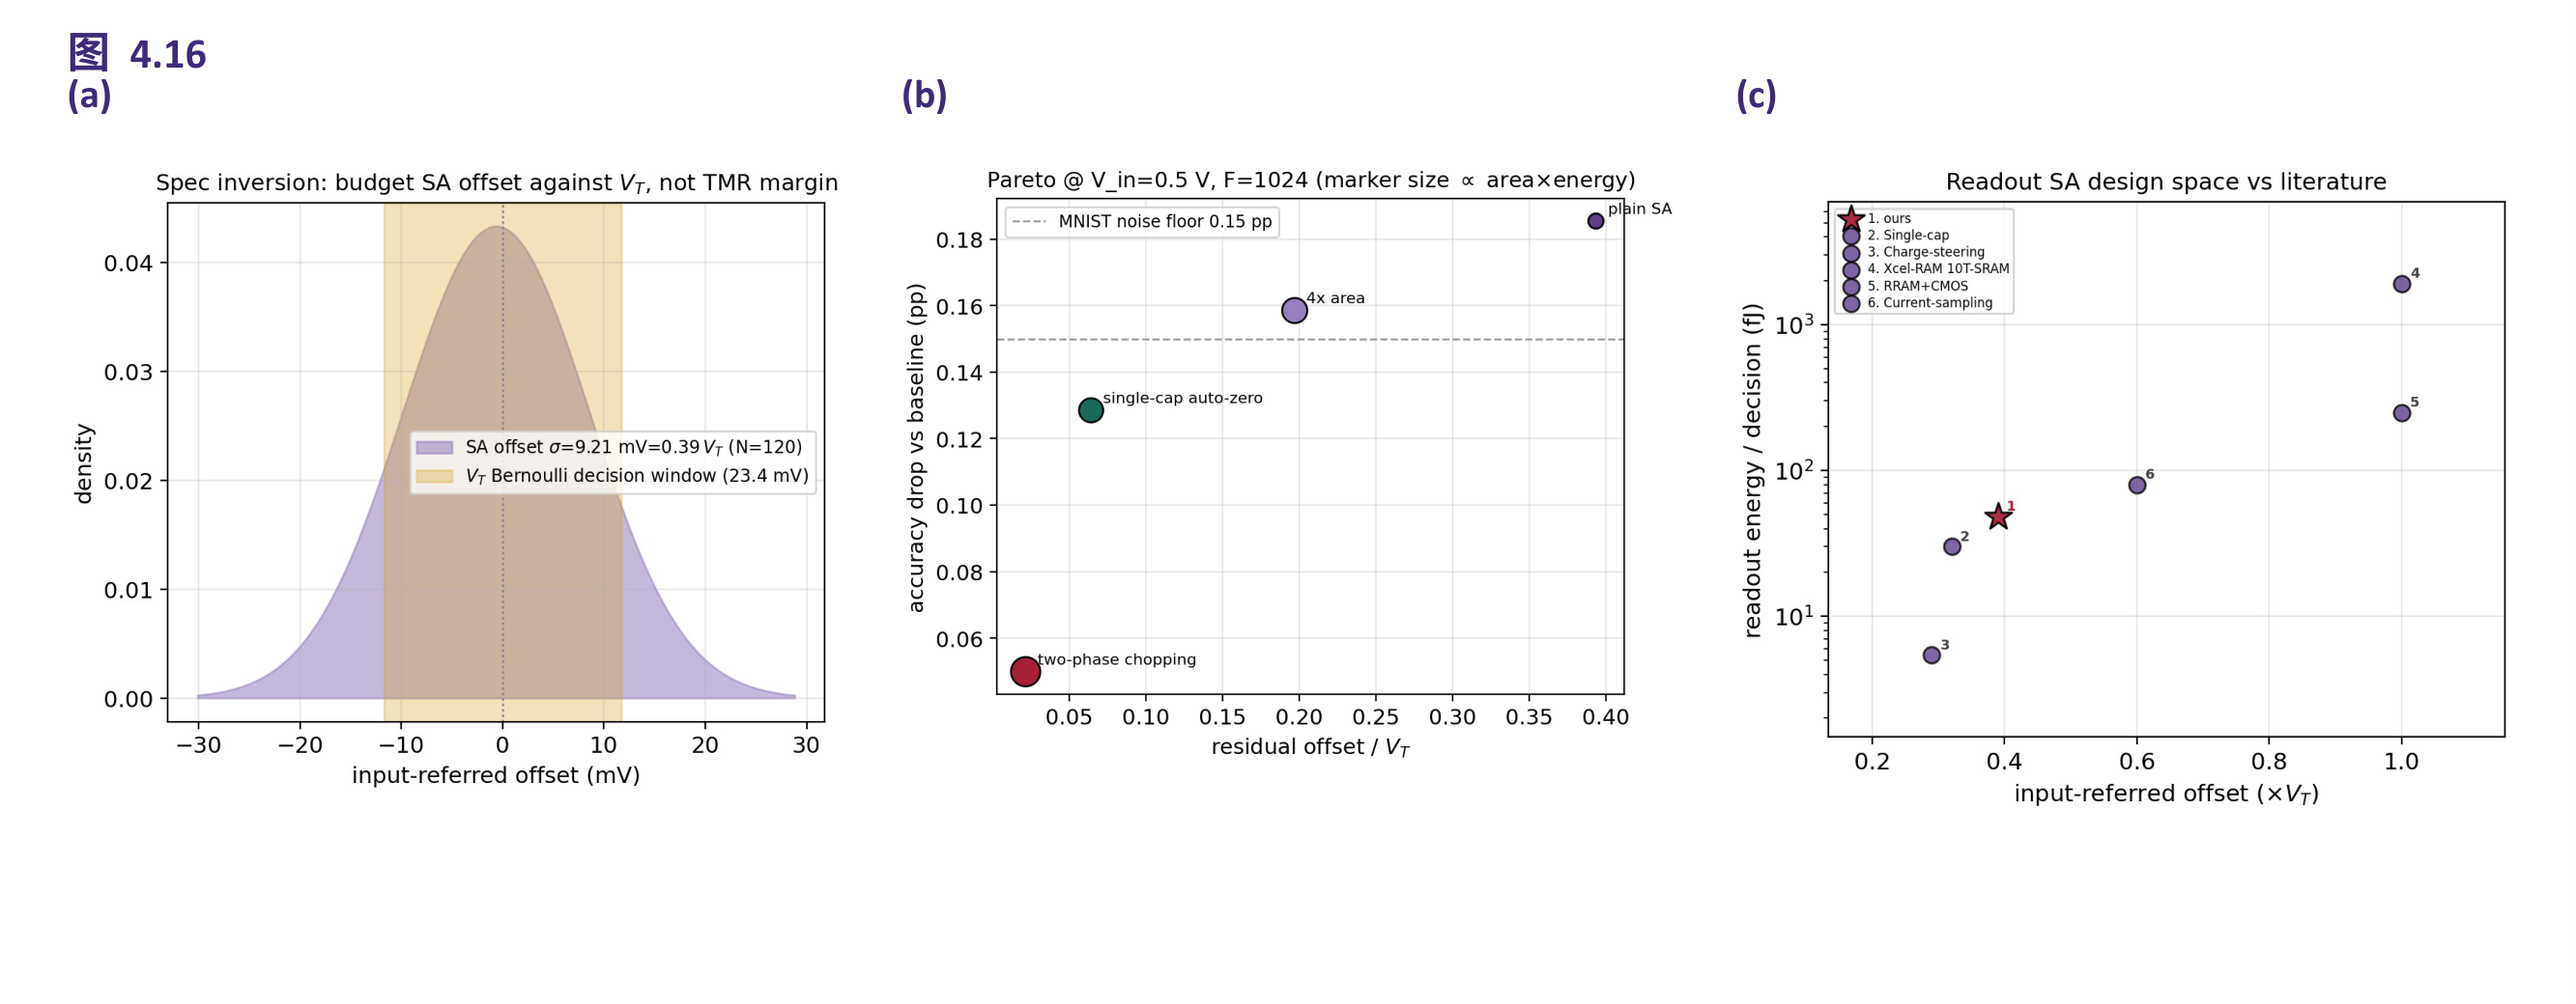
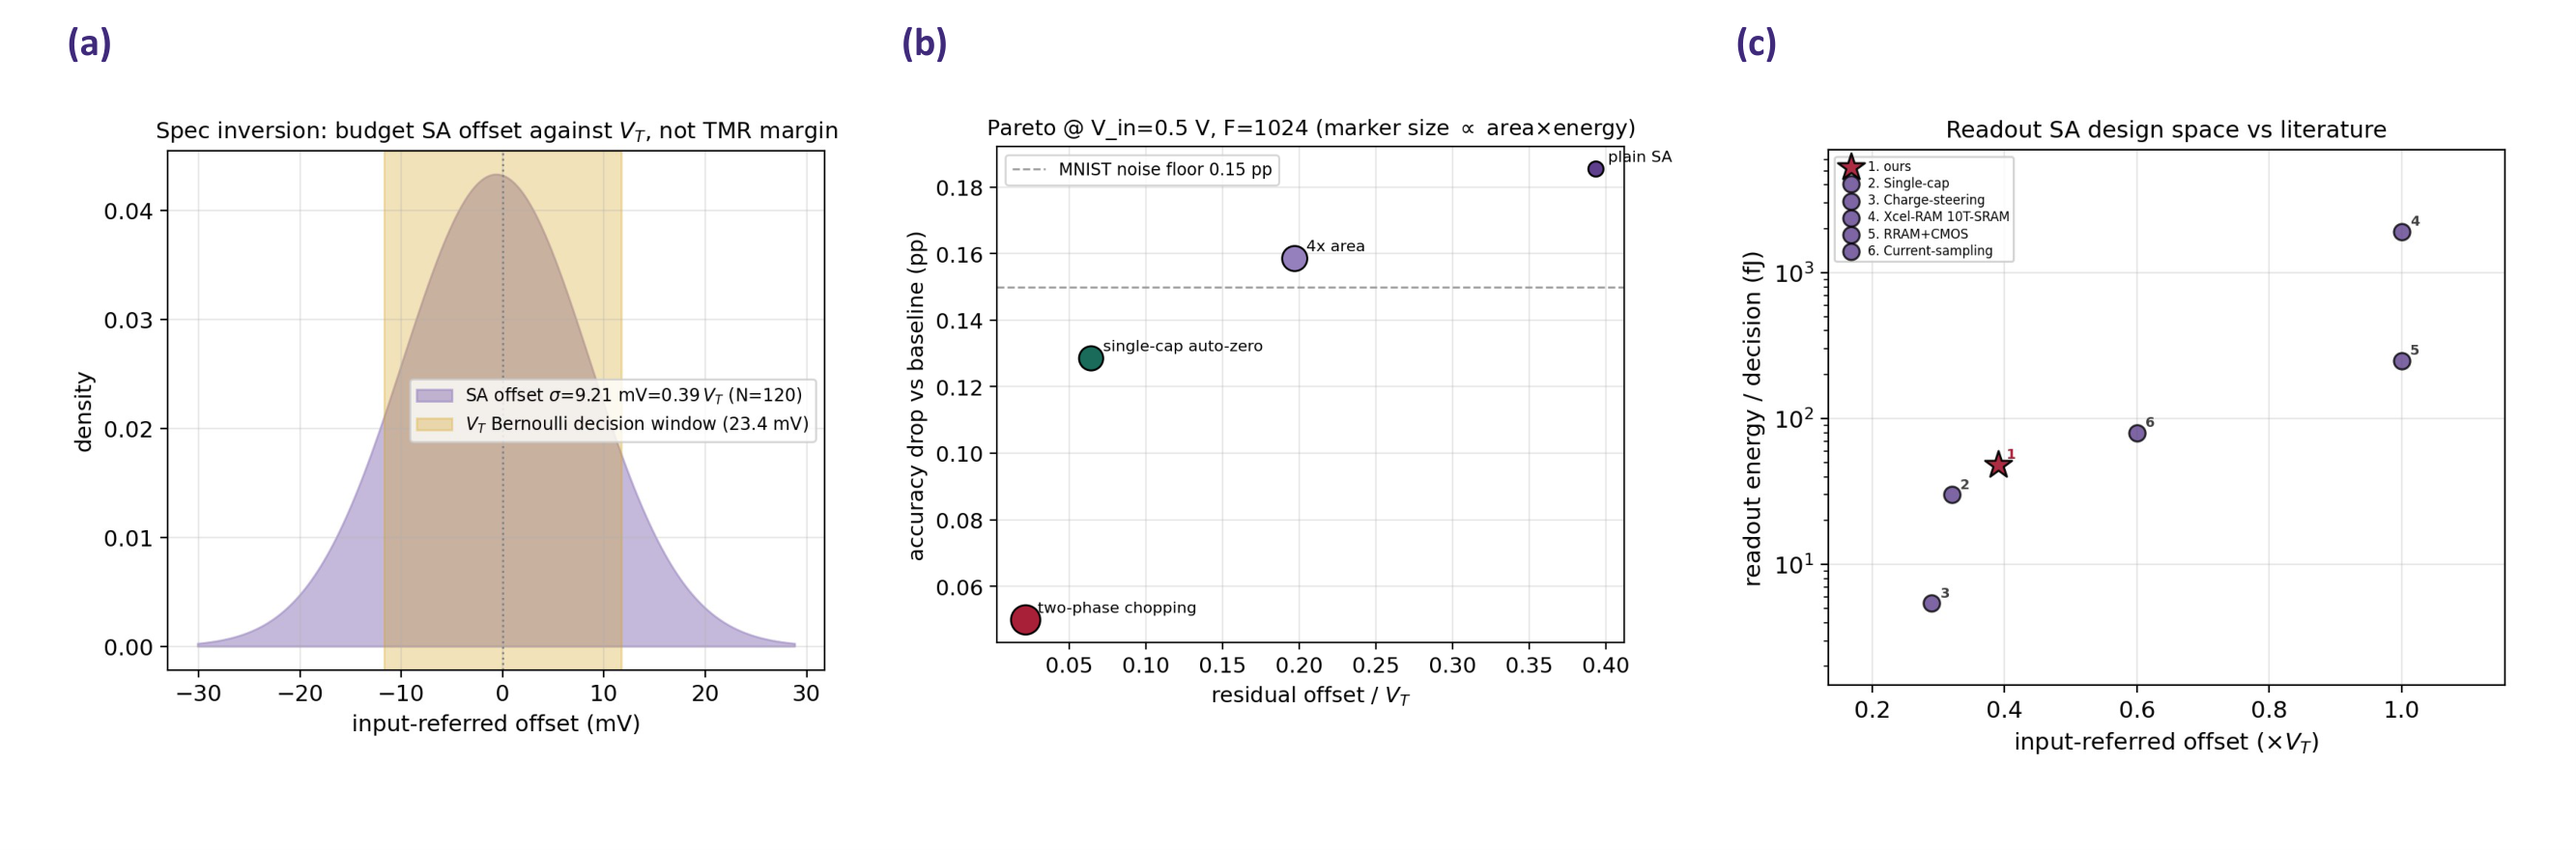
⑤ deck adds only panel letters (figure number stays in the caption)
The markdown captions already number the figures (**图4.18** …), so baking
"图 X.Y" into the exported image double-numbered it. The PPT now adds only the
(a)(b)(c) panel letters; the figure number comes from the caption. Also tighten
the auto-deck slide so the export carries no surrounding whitespace.

diff --git a/eda/build_ppt_figs.py b/eda/build_ppt_figs.py
@@ -44,14 +44,14 @@ FIGS = {
         {"stem": "ch05_09", "panels": ["a", "b", "c"], "num": "图 5.9", "out": "Chapter05_local_09"},
     ],
 }
-SLIDE_W, SLIDE_H = Inches(13.33), Inches(5.2)   # wide slide sized to a 3-panel row
+SLIDE_W, SLIDE_H = Inches(13.33), Inches(4.4)   # wide slide sized to a 3-panel row
 
 
 def build_slide(prs, fig):
     slide = prs.slides.add_slide(prs.slide_layouts[6])  # blank
     paths = [PANELS / f"{fig['stem']}_{p}.png" for p in fig["panels"]]
     n = len(paths)
-    margin, gap, top = 0.25, 0.12, 0.72
+    margin, gap, top = 0.25, 0.12, 0.45
     avail = SLIDE_W.inches - 2 * margin - (n - 1) * gap
     pw = avail / n
     for i, path in enumerate(paths):
@@ -63,10 +63,8 @@ def build_slide(prs, fig):
         r = tb.text_frame.paragraphs[0].add_run()
         r.text = f"({'abcdef'[i]})"
         r.font.bold = True; r.font.size = Pt(15); r.font.color.rgb = TITLE_RGB
-    # figure number, top-left
-    tb = slide.shapes.add_textbox(Inches(margin), Inches(0.08), Inches(3), Inches(0.4))
-    r = tb.text_frame.paragraphs[0].add_run()
-    r.text = fig["num"]; r.font.bold = True; r.font.size = Pt(16); r.font.color.rgb = TITLE_RGB
+    # NOTE: the deck adds only the (a)(b)(c) panel letters; the figure NUMBER
+    # (图 X.Y) lives in the markdown caption, so it is intentionally NOT baked in.
 
 
 def main():
